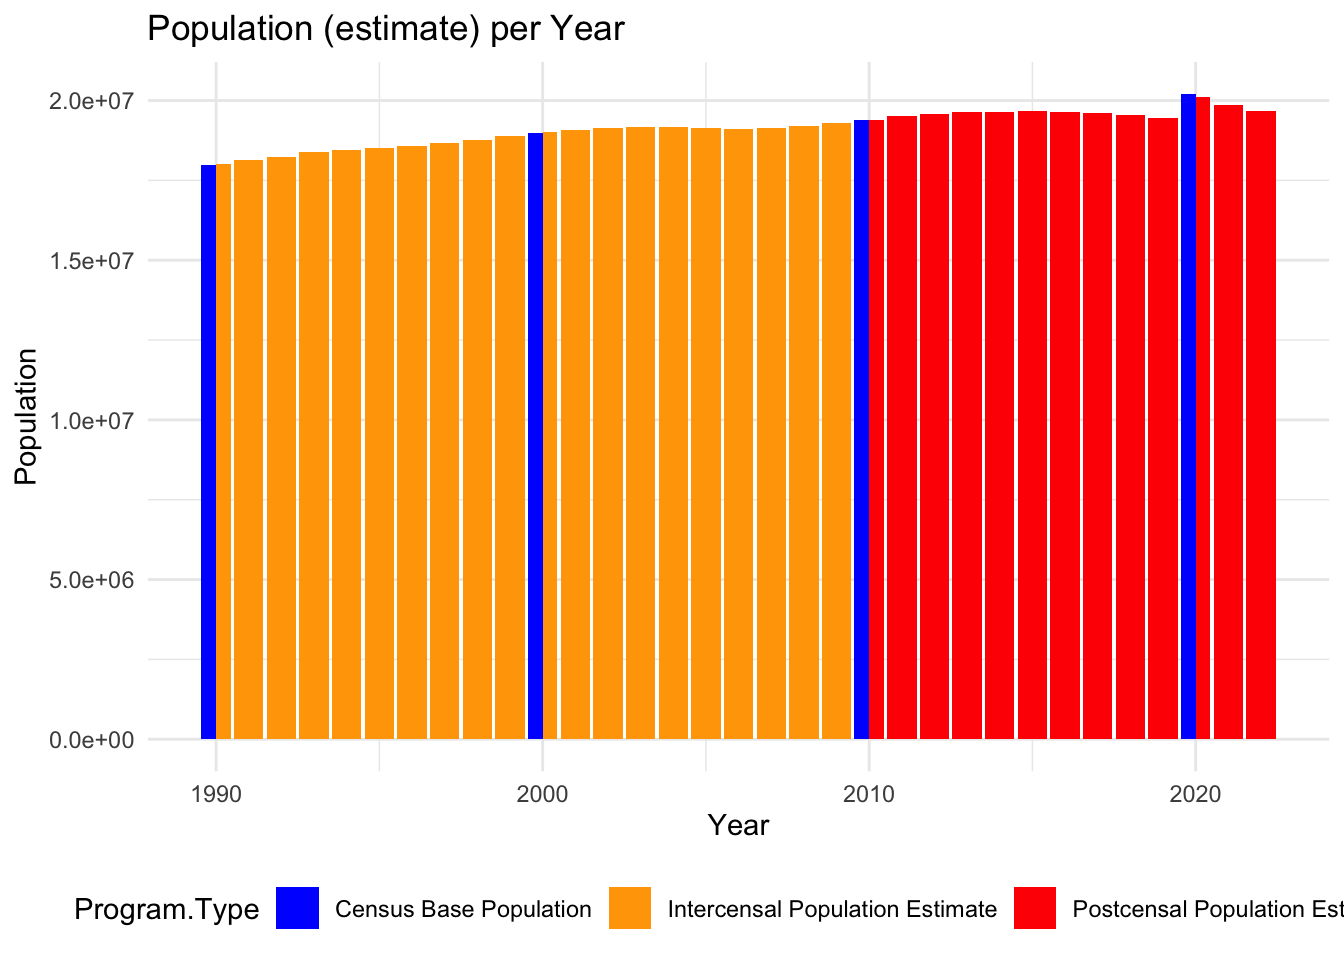
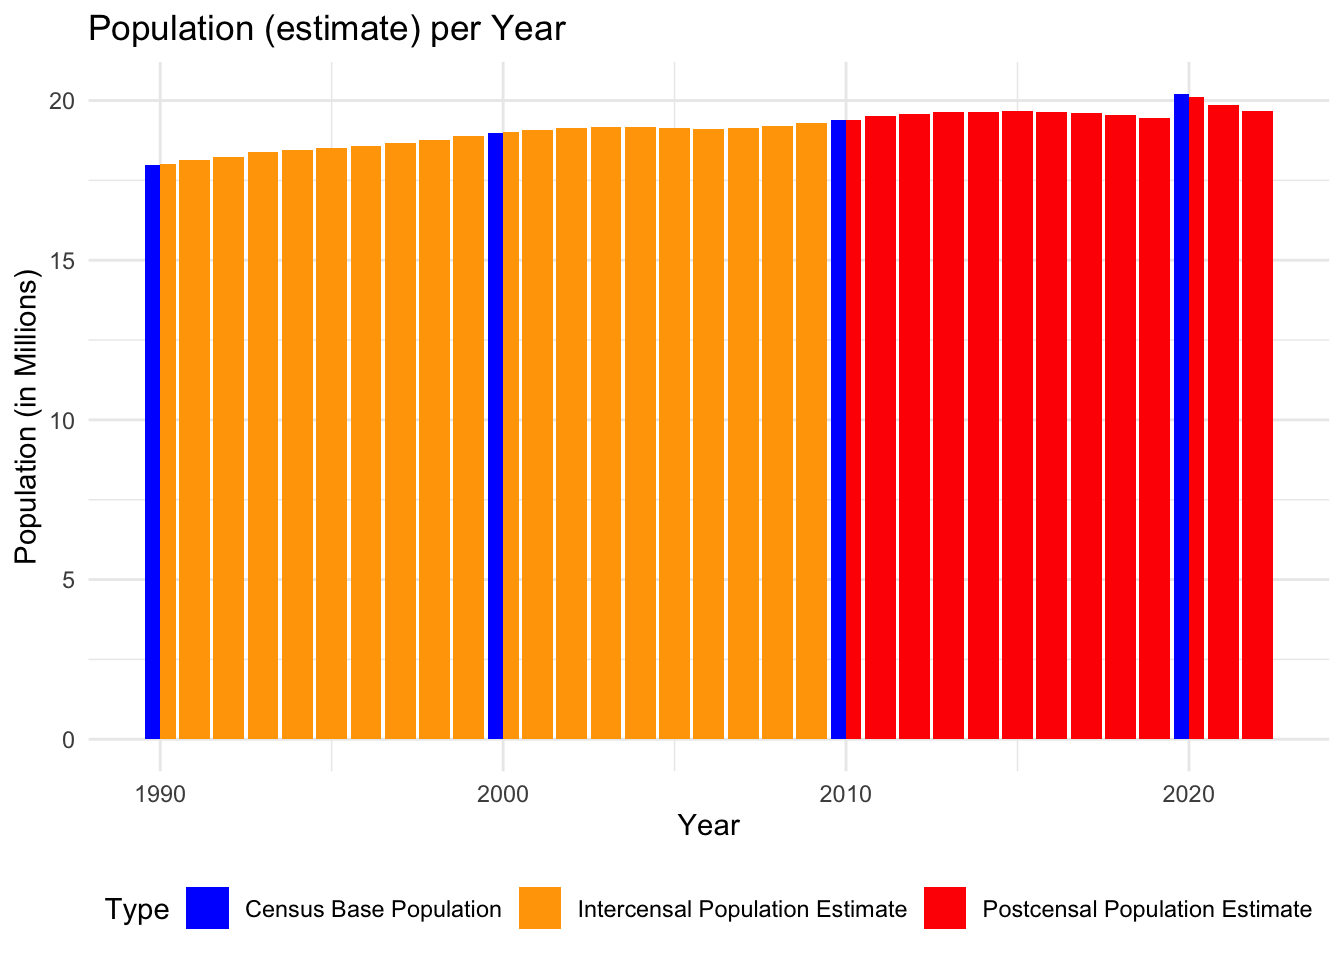
small edits

diff --git a/docs/data.html b/docs/data.html
@@ -515,21 +515,22 @@ Describe any patterns you discover in missing values. If no values are missing, 
 <details>
 <summary>Code</summary>
 <div class="sourceCode cell-code" id="cb12"><pre class="sourceCode r code-with-copy"><code class="sourceCode r"><span id="cb12-1"><a href="#cb12-1" aria-hidden="true" tabindex="-1"></a>pop_ny_full_state <span class="ot">&lt;-</span> pop_ny[(pop_ny<span class="sc">$</span>Geography <span class="sc">==</span> <span class="st">'New York State'</span>) <span class="sc">&amp;</span> (pop_ny<span class="sc">$</span>Year <span class="sc">&gt;=</span> <span class="dv">1990</span>), ]</span>
-<span id="cb12-2"><a href="#cb12-2" aria-hidden="true" tabindex="-1"></a></span>
-<span id="cb12-3"><a href="#cb12-3" aria-hidden="true" tabindex="-1"></a><span class="fu">ggplot</span>(pop_ny_full_state, </span>
-<span id="cb12-4"><a href="#cb12-4" aria-hidden="true" tabindex="-1"></a>                        <span class="fu">aes</span>(<span class="at">x =</span> Year, </span>
-<span id="cb12-5"><a href="#cb12-5" aria-hidden="true" tabindex="-1"></a>                            <span class="at">y =</span> Population, </span>
-<span id="cb12-6"><a href="#cb12-6" aria-hidden="true" tabindex="-1"></a>                            <span class="at">fill =</span> Program.Type)) <span class="sc">+</span></span>
-<span id="cb12-7"><a href="#cb12-7" aria-hidden="true" tabindex="-1"></a>  <span class="fu">geom_col</span>(<span class="at">position =</span> <span class="st">"dodge"</span>, </span>
-<span id="cb12-8"><a href="#cb12-8" aria-hidden="true" tabindex="-1"></a>           <span class="at">width =</span> <span class="fl">0.9</span>) <span class="sc">+</span> </span>
-<span id="cb12-9"><a href="#cb12-9" aria-hidden="true" tabindex="-1"></a>  <span class="fu">labs</span>(<span class="at">title =</span> <span class="st">"Population (estimate) per Year"</span>, </span>
-<span id="cb12-10"><a href="#cb12-10" aria-hidden="true" tabindex="-1"></a>       <span class="at">x =</span> <span class="st">"Year"</span>, </span>
-<span id="cb12-11"><a href="#cb12-11" aria-hidden="true" tabindex="-1"></a>       <span class="at">y =</span> <span class="st">"Population"</span>) <span class="sc">+</span></span>
-<span id="cb12-12"><a href="#cb12-12" aria-hidden="true" tabindex="-1"></a>  <span class="fu">scale_fill_manual</span>(<span class="at">values =</span> <span class="fu">c</span>(<span class="st">"Census Base Population"</span> <span class="ot">=</span> <span class="st">"blue"</span>, </span>
-<span id="cb12-13"><a href="#cb12-13" aria-hidden="true" tabindex="-1"></a>                              <span class="st">"Postcensal Population Estimate"</span> <span class="ot">=</span> <span class="st">"red"</span>,</span>
-<span id="cb12-14"><a href="#cb12-14" aria-hidden="true" tabindex="-1"></a>                              <span class="st">'Intercensal Population Estimate'</span> <span class="ot">=</span> <span class="st">'orange'</span>)) <span class="sc">+</span></span>
-<span id="cb12-15"><a href="#cb12-15" aria-hidden="true" tabindex="-1"></a>  <span class="fu">theme_minimal</span>() <span class="sc">+</span></span>
-<span id="cb12-16"><a href="#cb12-16" aria-hidden="true" tabindex="-1"></a>  <span class="fu">theme</span>(<span class="at">legend.position =</span> <span class="st">"bottom"</span>)</span></code><button title="Copy to Clipboard" class="code-copy-button"><i class="bi"></i></button></pre></div>
+<span id="cb12-2"><a href="#cb12-2" aria-hidden="true" tabindex="-1"></a>pop_ny_full_state <span class="ot">&lt;-</span> <span class="fu">rename</span>(pop_ny_full_state, <span class="at">Type =</span> Program.Type)</span>
+<span id="cb12-3"><a href="#cb12-3" aria-hidden="true" tabindex="-1"></a></span>
+<span id="cb12-4"><a href="#cb12-4" aria-hidden="true" tabindex="-1"></a><span class="fu">ggplot</span>(pop_ny_full_state, </span>
+<span id="cb12-5"><a href="#cb12-5" aria-hidden="true" tabindex="-1"></a>                        <span class="fu">aes</span>(<span class="at">x =</span> Year, </span>
+<span id="cb12-6"><a href="#cb12-6" aria-hidden="true" tabindex="-1"></a>                            <span class="at">y =</span> Population<span class="sc">/</span><span class="dv">1000000</span>, </span>
+<span id="cb12-7"><a href="#cb12-7" aria-hidden="true" tabindex="-1"></a>                            <span class="at">fill =</span> Type)) <span class="sc">+</span></span>
+<span id="cb12-8"><a href="#cb12-8" aria-hidden="true" tabindex="-1"></a>  <span class="fu">geom_col</span>(<span class="at">position =</span> <span class="st">"dodge"</span>, </span>
+<span id="cb12-9"><a href="#cb12-9" aria-hidden="true" tabindex="-1"></a>           <span class="at">width =</span> <span class="fl">0.9</span>) <span class="sc">+</span> </span>
+<span id="cb12-10"><a href="#cb12-10" aria-hidden="true" tabindex="-1"></a>  <span class="fu">labs</span>(<span class="at">title =</span> <span class="st">"Population (estimate) per Year"</span>, </span>
+<span id="cb12-11"><a href="#cb12-11" aria-hidden="true" tabindex="-1"></a>       <span class="at">x =</span> <span class="st">"Year"</span>, </span>
+<span id="cb12-12"><a href="#cb12-12" aria-hidden="true" tabindex="-1"></a>       <span class="at">y =</span> <span class="st">"Population (in Millions)"</span>) <span class="sc">+</span></span>
+<span id="cb12-13"><a href="#cb12-13" aria-hidden="true" tabindex="-1"></a>  <span class="fu">scale_fill_manual</span>(<span class="at">values =</span> <span class="fu">c</span>(<span class="st">"Census Base Population"</span> <span class="ot">=</span> <span class="st">"blue"</span>, </span>
+<span id="cb12-14"><a href="#cb12-14" aria-hidden="true" tabindex="-1"></a>                              <span class="st">"Postcensal Population Estimate"</span> <span class="ot">=</span> <span class="st">"red"</span>,</span>
+<span id="cb12-15"><a href="#cb12-15" aria-hidden="true" tabindex="-1"></a>                              <span class="st">'Intercensal Population Estimate'</span> <span class="ot">=</span> <span class="st">'orange'</span>)) <span class="sc">+</span></span>
+<span id="cb12-16"><a href="#cb12-16" aria-hidden="true" tabindex="-1"></a>  <span class="fu">theme_minimal</span>() <span class="sc">+</span></span>
+<span id="cb12-17"><a href="#cb12-17" aria-hidden="true" tabindex="-1"></a>  <span class="fu">theme</span>(<span class="at">legend.position =</span> <span class="st">"bottom"</span>)</span></code><button title="Copy to Clipboard" class="code-copy-button"><i class="bi"></i></button></pre></div>
 </details>
 <div class="cell-output-display">
 <p><img src="data_files/figure-html/unnamed-chunk-7-1.png" class="img-fluid" width="672"></p>
